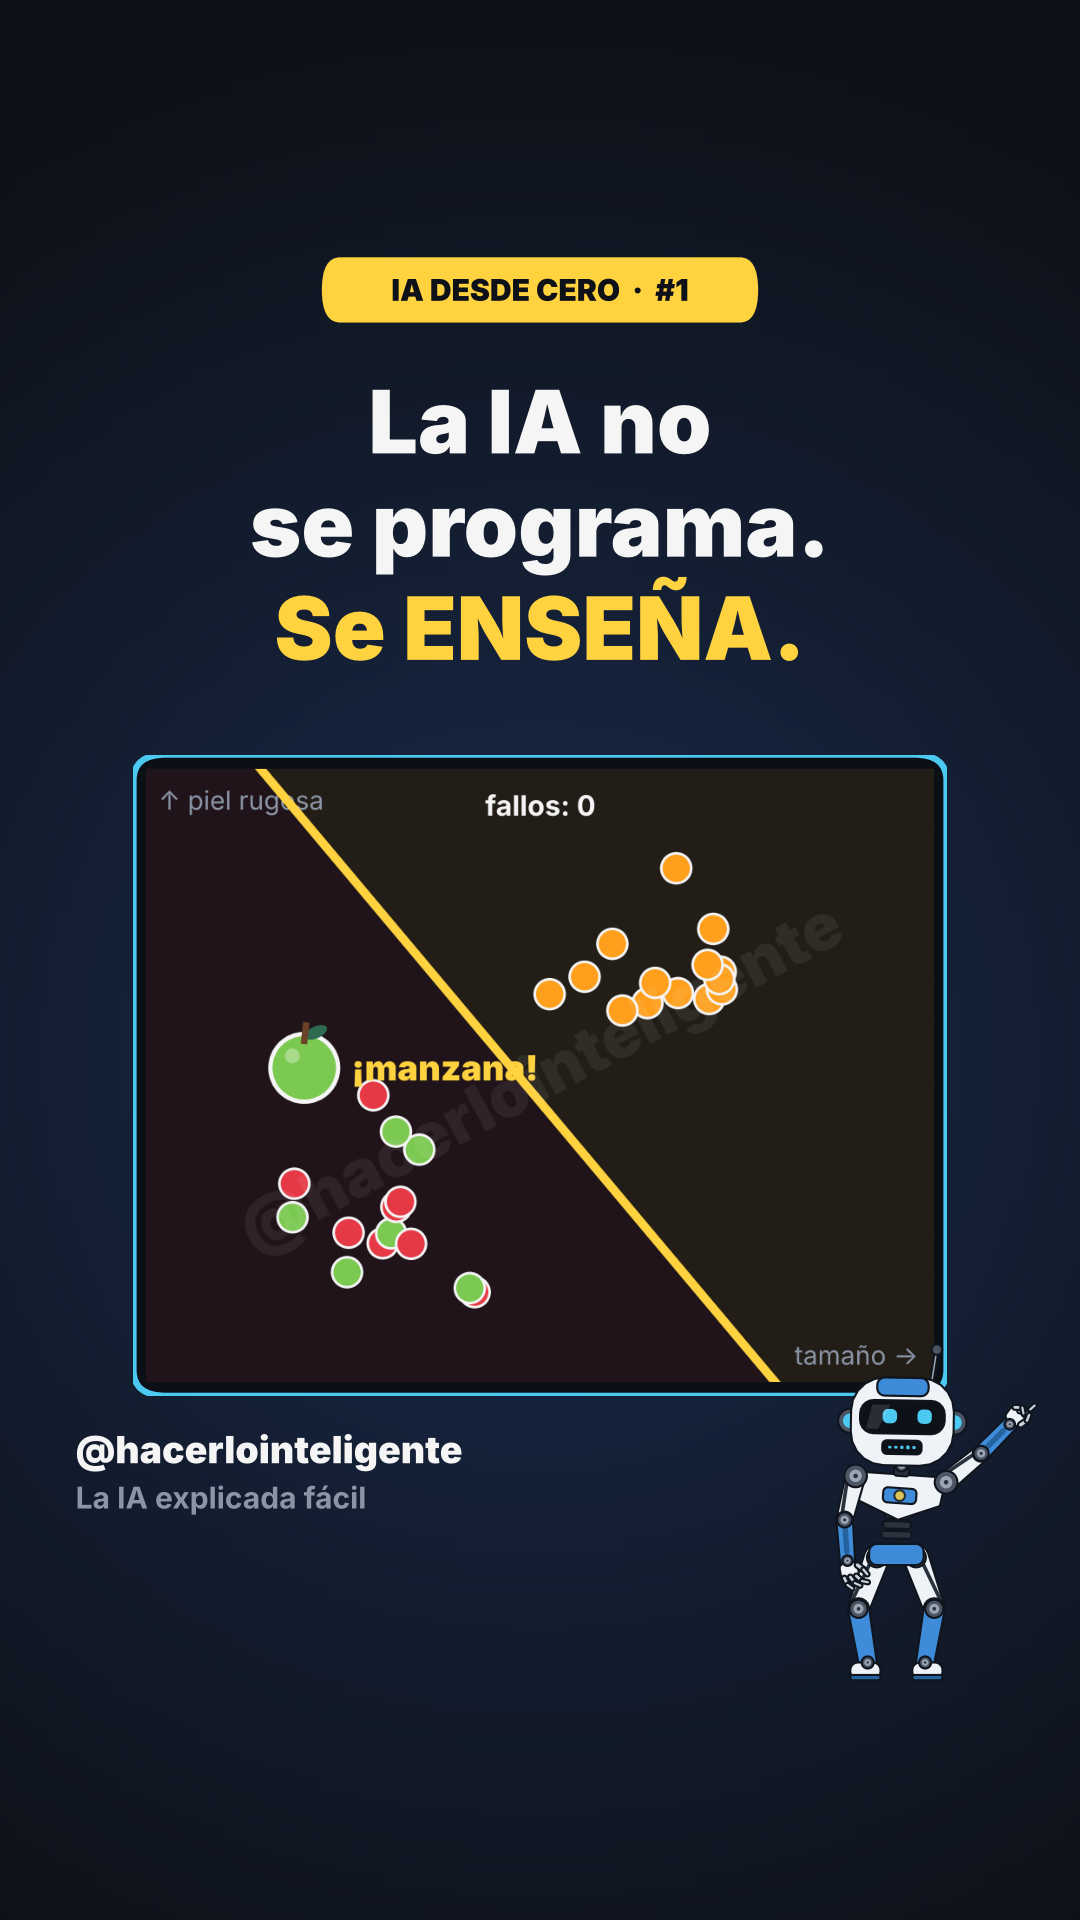
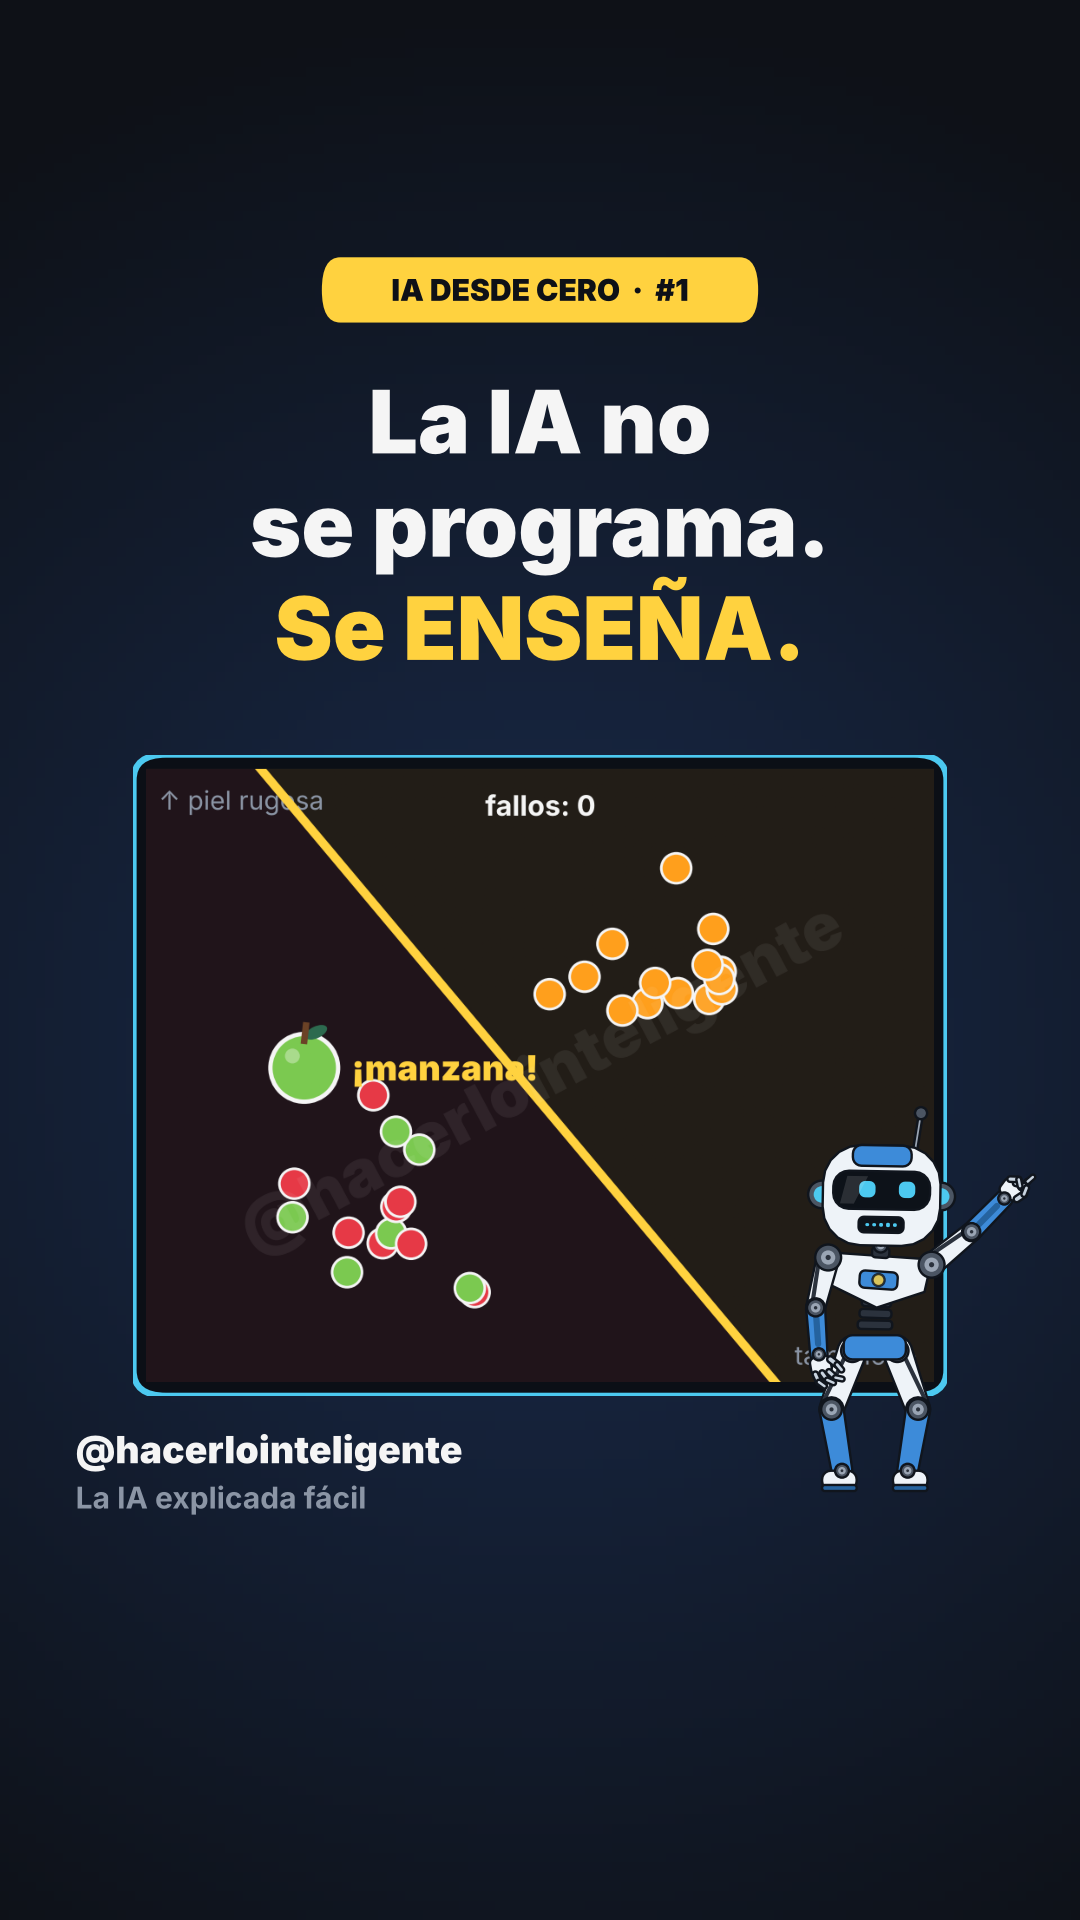
Portadas: el robot vuelve a asomar por delante de la gráfica
Claude-Session: https://claude.ai/code/session_01GPzezKcZXn3T3hSXmWk8t8

Changed region(s): [[0.7333, 0.5938, 0.9472, 0.875], [0.9167, 0.7188, 0.9472, 0.75]]

diff --git a/generador/portada.py b/generador/portada.py
@@ -5,7 +5,9 @@ Instagram muestra la portada en la cuadrícula del perfil recortada a 3:4 (franj
 
 Uso: crear_portada(reel, draw, nombre, PORTADA) con
   PORTADA = dict(titulo=["línea 1", "línea 2", ...], amarilla=índice de la línea destacada,
-                 t=segundo de la animación que se enseña, gesto="senala" | "piensa" | ...)
+                 t=segundo de la animación que se enseña, gesto="senala" | "piensa" | ...,
+                 robot_x=posición horizontal del robot (0.81 por defecto; ponerlo donde no
+                 tape lo más importante de la gráfica))
 """
 import io
 
@@ -92,12 +94,16 @@ def crear_portada(reel, draw, nombre, conf):
     rax.patch.set_alpha(0)
     gesto = conf.get("gesto", "saludo")
     pose = pose_en(2.0, [(0.0, gesto, 0.01)])
-    # debajo de la imagen, señalándola, sin tapar el algoritmo
-    Robot(rax).dibujar(2.0, pose, cx=0.83, cy=(y_img - 0.075) * ALTO, s=0.14, boca=0.3)
+    # asomando por delante de la esquina inferior derecha de la gráfica (gusta al usuario)
+    Robot(rax).dibujar(2.0, pose, cx=conf.get("robot_x", 0.81), cy=(y_img + 0.035) * ALTO,
+                       s=0.16, boca=0.3)
 
-    fig.text(0.07, y_img - 0.035, CANAL, ha="left", va="center", size=15, weight="black",
+    # firma del canal en el lado contrario al robot
+    izq = conf.get("robot_x", 0.81) > 0.5
+    xf, ha = (0.07, "left") if izq else (0.93, "right")
+    fig.text(xf, y_img - 0.035, CANAL, ha=ha, va="center", size=15, weight="black",
              color=FG, zorder=3)
-    fig.text(0.07, y_img - 0.06, "La IA explicada fácil", ha="left", va="center", size=12,
+    fig.text(xf, y_img - 0.06, "La IA explicada fácil", ha=ha, va="center", size=12,
              weight="bold", color=MUTED, zorder=3)
 
     fig.savefig(ROOT / "portadas" / f"{nombre}.png", dpi=DPI, facecolor=BG)

diff --git a/generador/v06_red_neuronal.py b/generador/v06_red_neuronal.py
@@ -77,7 +77,8 @@ VOZ = {
 EFECTOS = ([(2.0, "pop"), (4.6, "whoosh")] + [(tc, "pop") for tc in T_CAPA]
            + [(18.2, "pop")] + [(T_CICLO0 + k * T_CICLO_PASO, "pop") for k in range(len(CICLO))])
 
-PORTADA = dict(titulo=["Cómo lee una IA", "un número", "escrito a mano"], amarilla=1, t=19.5, gesto="senala")
+PORTADA = dict(titulo=["Cómo lee una IA", "un número", "escrito a mano"], amarilla=1, t=19.5, gesto="senala",
+               robot_x=0.17)
 
 reel = Reel(3, "Cómo reconoce una IA\nun número escrito\na mano", ESCENAS, 31.2, voz=VOZ,
             efectos=EFECTOS, serie=SERIE_CERO, musica={"bpm": 100},
